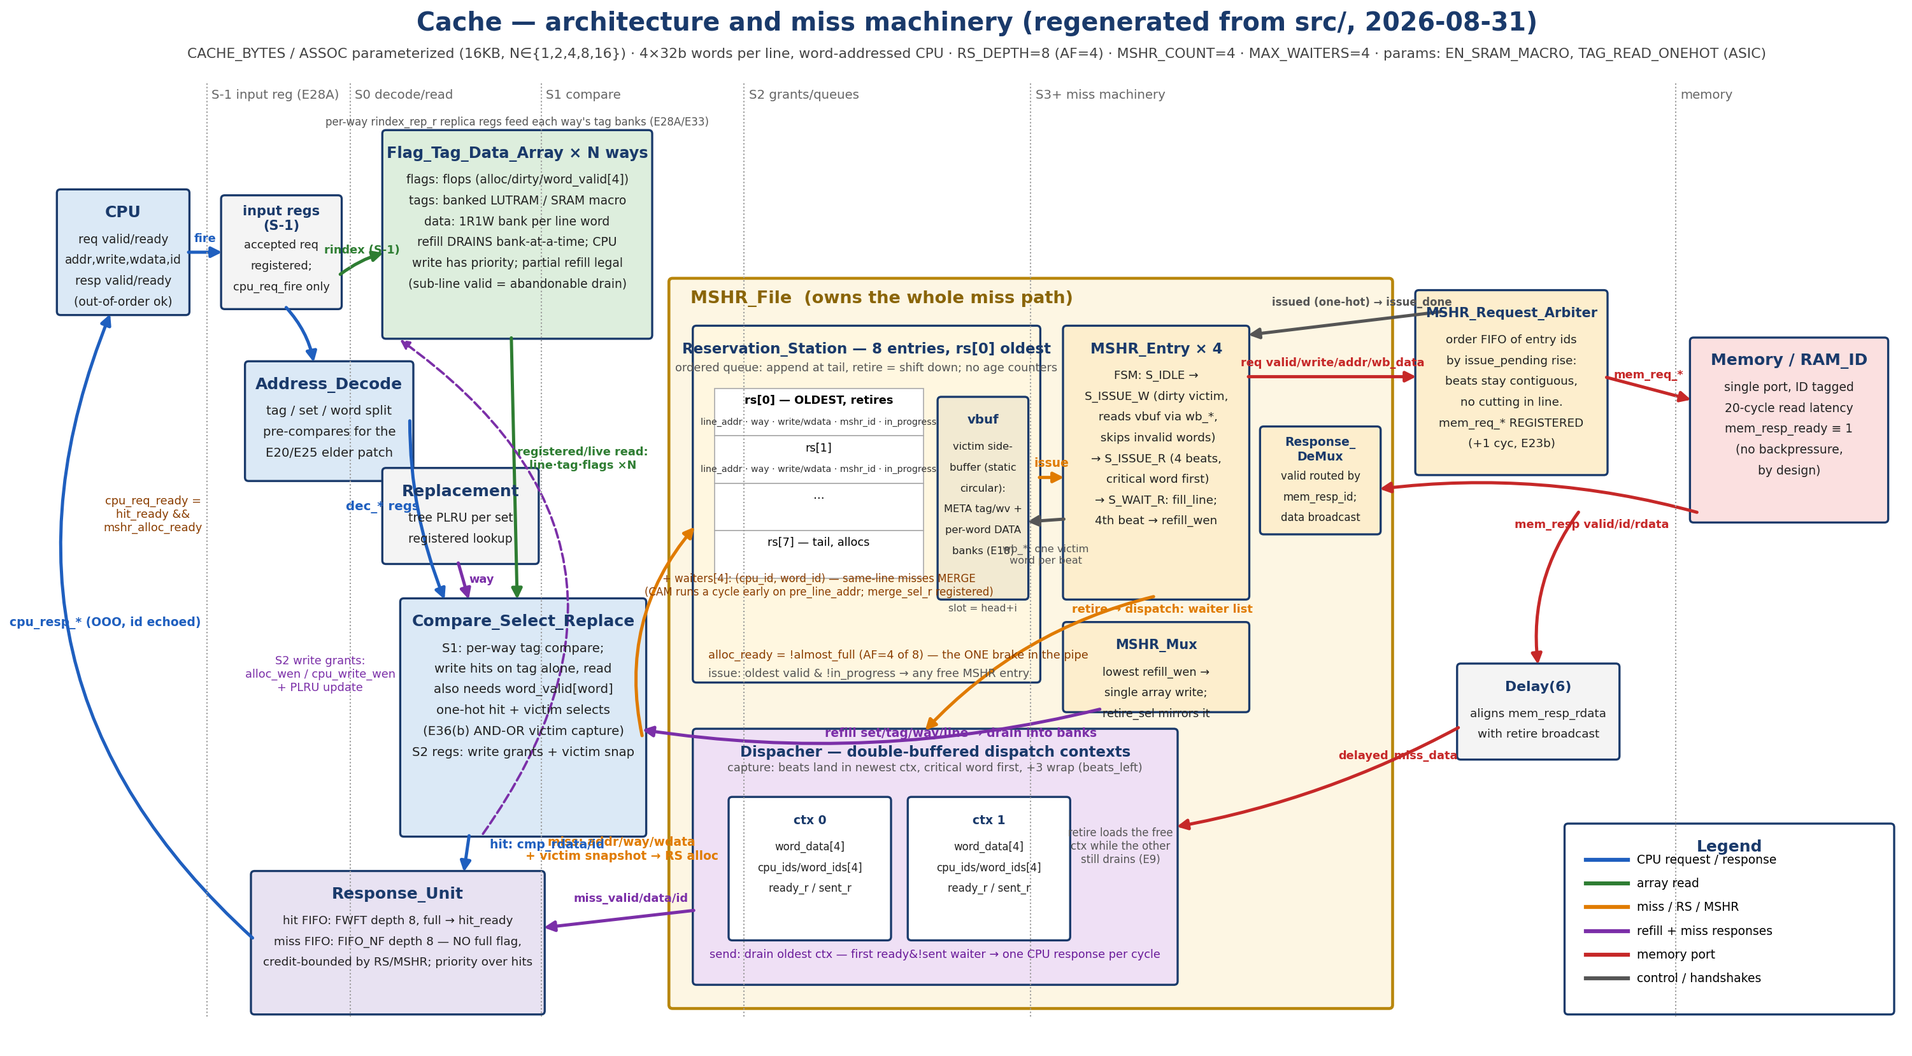
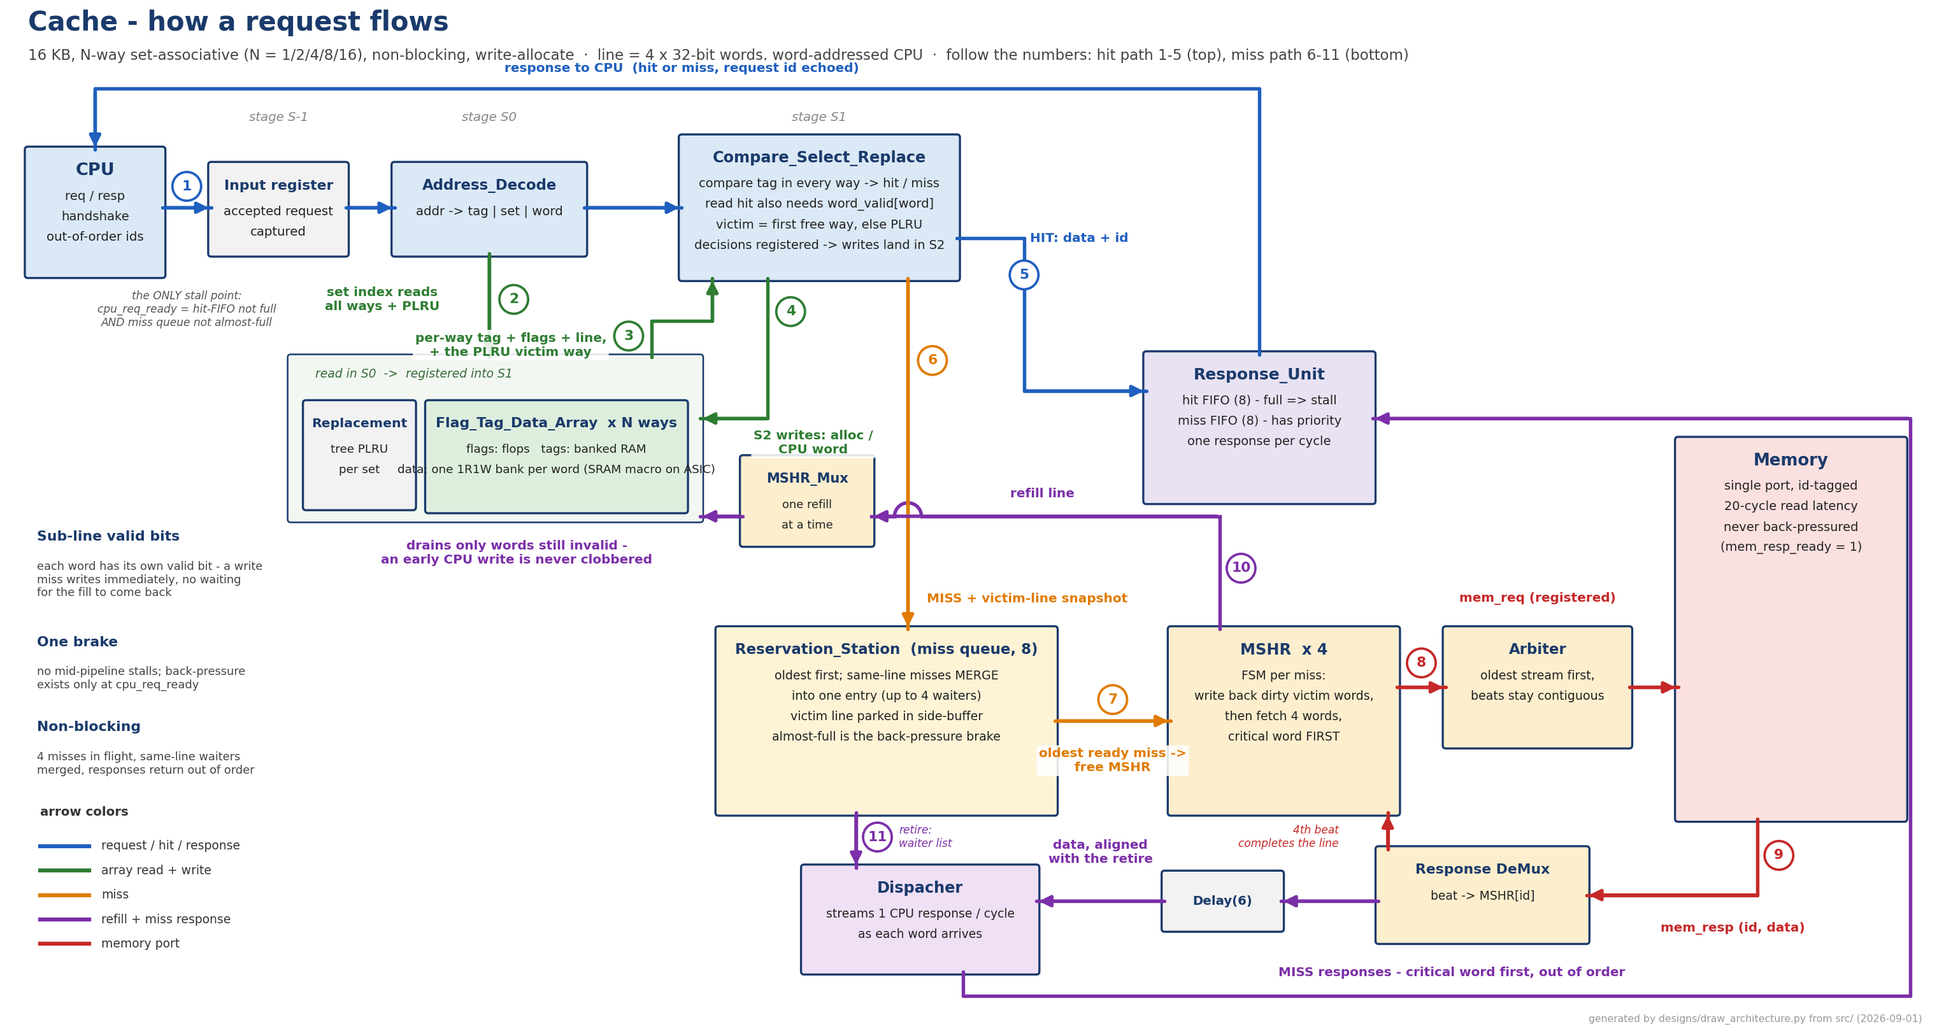
Cache_Architecture.png: numbered-flow redraw from a full src/ re-read
Replaces the dense annotation-covered diagram with a followable story:
hit path 1-5 across the top, miss path 6-11 across the bottom, orthogonal
elbow arrows colored by class, one bridged crossing, and the three load-
bearing ideas (sub-line valid bits, single stall point, non-blocking
misses) called out in plain language. Regenerated by
designs/draw_architecture.py.

Claude-Session: https://claude.ai/code/session_01FEcUytCo5kkGQY8GUweaHs

diff --git a/designs/draw_architecture.py b/designs/draw_architecture.py
@@ -1,148 +1,218 @@
 #!/usr/bin/env python3
 """Cache_Architecture.png - block diagram regenerated from a full src/ read
-(2026-08-31). MSHR_File is opened up: Reservation_Station and Dispacher are
-first-class blocks with internals. Numbers are the as-built Cache.sv
-overrides: S-1 input stage (E28A), RS_DEPTH=8/AF=4, MSHR_COUNT=4,
-MAX_WAITERS=4, Delay(6), registered arbiter outputs (E23b).
+(2026-09-01 rewrite for readability). The flow is a NUMBERED story (1-11):
+request -> hit path across the top, miss machinery across the bottom, one
+clean response rail back to the CPU. All arrows are orthogonal elbows; the
+single unavoidable crossing (refill vs miss-descent) is drawn as a hop.
+Numbers are the as-built Cache.sv overrides: S-1 input stage, RS_DEPTH=8
+(AF=4), MSHR_COUNT=4, MAX_WAITERS=4, Delay(6), registered arbiter outputs.
     python3 draw_architecture.py
 """
 import os
 import matplotlib
 matplotlib.use("Agg")
 import matplotlib.pyplot as plt
-from matplotlib.patches import FancyBboxPatch, FancyArrowPatch, Rectangle
+from matplotlib.patches import FancyBboxPatch, Arc
+from matplotlib.lines import Line2D
 
 HERE = os.path.dirname(os.path.abspath(__file__))
-W, H = 31.0, 17.5
-fig, ax = plt.subplots(figsize=(25, 14.1))
+W, H = 31.5, 16.6
+fig, ax = plt.subplots(figsize=(26, 13.8))
 ax.set_xlim(0, W); ax.set_ylim(0, H); ax.axis("off")
+ax.set_aspect("equal")
 
-C = dict(cpu="#dbe9f6", arr="#ddeedd", csr="#dbe9f6", mshr="#fdeecd",
-         rs="#fff7e0", disp="#efe0f5", resp="#e8e2f2", mem="#fbe0e0", note="#f4f4f4")
 EC = "#1a3a6b"
-
-def box(x, y, w, h, title, lines=(), fc="#eef", fs=10, tfs=12, ec=EC, lw=1.6):
-    ax.add_patch(FancyBboxPatch((x, y), w, h, boxstyle="round,pad=0.06", fc=fc, ec=ec, lw=lw))
-    ax.text(x + w/2, y + h - 0.33, title, ha="center", va="center", fontsize=tfs, fontweight="bold", color=EC)
-    for i, ln in enumerate(lines):
-        ax.text(x + w/2, y + h - 0.78 - i*0.35, ln, ha="center", va="center", fontsize=fs, color="#222")
-
-def arrow(p0, p1, color, label=None, lw=2.4, ls="-", rad=0.0, fs=9.5, lofs=(0, 0.18)):
-    ax.add_patch(FancyArrowPatch(p0, p1, arrowstyle="-|>", mutation_scale=16, color=color,
-                                 lw=lw, linestyle=ls, connectionstyle=f"arc3,rad={rad}"))
-    if label:
-        ax.text((p0[0]+p1[0])/2 + lofs[0], (p0[1]+p1[1])/2 + lofs[1], label,
-                fontsize=fs, color=color, ha="center", fontweight="bold")
-
 BLU, GRN, ORG, PUR, RED, GRY = "#1f5fbf", "#2e7d32", "#e07b00", "#7b2fa8", "#c62828", "#555"
+C = dict(cpu="#dbe9f6", arr="#ddeedd", mshr="#fdeecd", rs="#fff3d6",
+         disp="#efe0f5", resp="#e8e2f2", mem="#fbe0e0", note="#f2f2f2")
 
-ax.text(W/2, H-0.35, "Cache — architecture and miss machinery (regenerated from src/, 2026-08-31)",
-        ha="center", fontsize=19, fontweight="bold", color=EC)
-ax.text(W/2, H-0.82, "CACHE_BYTES / ASSOC parameterized (16KB, N∈{1,2,4,8,16}) · 4×32b words per line, word-addressed CPU · "
-        "RS_DEPTH=8 (AF=4) · MSHR_COUNT=4 · MAX_WAITERS=4 · params: EN_SRAM_MACRO, TAG_READ_ONEHOT (ASIC)",
-        ha="center", fontsize=10.5, color="#444")
 
-# stage rails
-for x, s in [(2.6, "S-1 input reg (E28A)"), (5.0, "S0 decode/read"), (8.2, "S1 compare"),
-             (11.6, "S2 grants/queues"), (16.4, "S3+ miss machinery"), (27.2, "memory")]:
-    ax.plot([x, x], [0.5, H-1.25], ls=":", color="#999", lw=1)
-    ax.text(x + 0.08, H-1.5, s, fontsize=9.5, color="#666", ha="left")
+def box(x, y, w, h, title, lines=(), fc="#eef", fs=9.5, tfs=12, lw=1.6, tc=EC):
+    ax.add_patch(FancyBboxPatch((x, y), w, h, boxstyle="round,pad=0.05",
+                                fc=fc, ec=EC, lw=lw))
+    if lines:
+        ax.text(x + w / 2, y + h - 0.34, title, ha="center", va="center",
+                fontsize=tfs, fontweight="bold", color=tc)
+        for i, ln in enumerate(lines):
+            ax.text(x + w / 2, y + h - 0.76 - i * 0.335, ln, ha="center",
+                    va="center", fontsize=fs, color="#222")
+    else:
+        ax.text(x + w / 2, y + h / 2, title, ha="center", va="center",
+                fontsize=tfs, fontweight="bold", color=tc)
 
-# ---------------- left: CPU, S-1, S0, arrays, S1 ----------------
-box(0.15, 12.4, 2.1, 2.0, "CPU", ["req valid/ready", "addr,write,wdata,id", "resp valid/ready", "(out-of-order ok)"], fc=C["cpu"], fs=9)
-box(2.9, 12.5, 1.9, 1.8, "input regs\n(S-1)", ["accepted req", "registered;", "cpu_req_fire only"], fc=C["note"], fs=8.5, tfs=10)
-box(3.3, 9.6, 2.7, 1.9, "Address_Decode", ["tag / set / word split", "pre-compares for the", "E20/E25 elder patch"], fc=C["cpu"], fs=9.5)
-box(5.6, 12.0, 4.4, 3.4, "Flag_Tag_Data_Array × N ways",
-    ["flags: flops (alloc/dirty/word_valid[4])", "tags: banked LUTRAM / SRAM macro", "data: 1R1W bank per line word",
-     "refill DRAINS bank-at-a-time; CPU", "write has priority; partial refill legal", "(sub-line valid = abandonable drain)"],
-    fc=C["arr"], fs=9, tfs=11.5)
-ax.text(7.8, 15.55, "per-way rindex_rep_r replica regs feed each way's tag banks (E28A/E33)", fontsize=8, ha="center", color="#555")
-box(5.6, 8.2, 2.5, 1.5, "Replacement", ["tree PLRU per set", "registered lookup"], fc=C["note"], fs=9)
-box(5.9, 3.6, 4.0, 3.9, "Compare_Select_Replace",
-    ["S1: per-way tag compare;", "write hits on tag alone, read", "also needs word_valid[word]",
-     "one-hot hit + victim selects", "(E36(b) AND-OR victim capture)", "S2 regs: write grants + victim snap"],
-    fc=C["csr"], fs=9.5)
 
-arrow((2.25, 13.4), (2.9, 13.4), BLU, "fire", fs=8.5)
-arrow((3.9, 12.5), (4.4, 11.5), BLU, "", rad=-0.15)
-arrow((4.8, 13.0), (5.6, 13.4), GRN, "rindex (S-1)", rad=-0.1, fs=8.5)
-arrow((6.0, 10.6), (6.6, 7.5), BLU, "dec_* regs", rad=0.1, lofs=(-0.75, 0))
-arrow((7.7, 12.0), (7.8, 7.5), GRN, "registered/live read:\nline·tag·flags ×N", lofs=(1.15, 0), fs=8.5)
-arrow((6.8, 8.2), (7.0, 7.5), PUR, "way", fs=8.5, lofs=(0.3, -0.02))
-ax.add_patch(FancyArrowPatch((7.2, 3.55), (5.8, 11.95), arrowstyle="-|>", mutation_scale=14,
-                             color=PUR, lw=1.8, connectionstyle="arc3,rad=0.5", linestyle="--"))
-ax.text(4.5, 6.0, "S2 write grants:\nalloc_wen / cpu_write_wen\n+ PLRU update", fontsize=8.5, color=PUR, ha="center")
+def badge(x, y, n, color):
+    ax.add_patch(plt.Circle((x, y), 0.235, fc="white", ec=color, lw=1.8, zorder=6))
+    ax.text(x, y, str(n), ha="center", va="center", fontsize=10.5,
+            fontweight="bold", color=color, zorder=7)
 
-# ---------------- MSHR_File container ----------------
-box(10.4, 0.7, 12.0, 12.2, "", fc="#fdf6e3", ec="#b8860b", lw=2.2)
-ax.text(10.7, 12.55, "MSHR_File  (owns the whole miss path)", fontsize=13, fontweight="bold", color="#8a6508", ha="left")
 
-# Reservation Station
-box(10.8, 6.2, 5.7, 5.9, "Reservation_Station — 8 entries, rs[0] oldest", [], fc=C["rs"], tfs=11)
-ax.text(13.65, 11.4, "ordered queue: append at tail, retire = shift down; no age counters", fontsize=8.5, ha="center", color="#555")
-tx, ty, tw = 11.1, 7.9, 3.5
-for i in range(4):
-    yy = ty + 3.2 - (i+1)*0.8
-    ax.add_patch(Rectangle((tx, yy), tw, 0.8, fc="white", ec="#aaa", lw=0.8))
-    lbl = ["rs[0] — OLDEST, retires", "rs[1]", "…", "rs[7] — tail, allocs"][i]
-    ax.text(tx + tw/2, yy + 0.55, lbl, fontsize=8.5, ha="center", fontweight="bold" if i == 0 else "normal")
-    if i < 2:
-        ax.text(tx + tw/2, yy + 0.2, "line_addr · way · write/wdata · mshr_id · in_progress", fontsize=6.8, ha="center", color="#333")
-ax.text(tx + tw/2, ty - 0.28, "+ waiters[4]: (cpu_id, word_id) — same-line misses MERGE\n(CAM runs a cycle early on pre_line_addr; merge_sel_r registered)", fontsize=8, ha="center", color="#8a3d00")
-box(14.9, 7.6, 1.4, 3.3, "vbuf", ["victim side-", "buffer (static", "circular):", "META tag/wv +", "per-word DATA", "banks (E18)"], fc="#f2ead2", fs=7.8, tfs=9.5)
-ax.text(15.6, 7.35, "slot = head+i", fontsize=7.5, ha="center", color="#555")
-ax.text(11.0, 6.55, "alloc_ready = !almost_full (AF=4 of 8) — the ONE brake in the pipe", fontsize=8.5, color="#8a3d00", ha="left")
-ax.text(11.0, 6.24, "issue: oldest valid & !in_progress → any free MSHR entry", fontsize=8.5, color="#555", ha="left")
+def elbow(pts, color, label=None, lxy=None, num=None, nxy=None, lw=2.6,
+          fs=9.6, hop_at=None):
+    """Orthogonal polyline with an arrowhead on the last segment.
+    hop_at=(x,y): draw a bridge arc where this line crosses another."""
+    for i in range(len(pts) - 1):
+        (x0, y0), (x1, y1) = pts[i], pts[i + 1]
+        if hop_at and y0 == y1 and min(x0, x1) < hop_at[0] < max(x0, x1):
+            d = 0.22 * (1 if x1 > x0 else -1)
+            ax.add_line(Line2D([x0, hop_at[0] - d], [y0, y0], color=color, lw=lw))
+            ax.add_patch(Arc(hop_at, 2 * abs(d), 0.44, theta1=0, theta2=180,
+                             color=color, lw=lw))
+            ax.add_line(Line2D([hop_at[0] + d, x1], [y0, y1], color=color, lw=lw))
+        else:
+            ax.add_line(Line2D([x0, x1], [y0, y1], color=color, lw=lw,
+                               solid_capstyle="round"))
+    (xa, ya), (xb, yb) = pts[-2], pts[-1]
+    ax.annotate("", xy=(xb, yb), xytext=(xa, ya),
+                arrowprops=dict(arrowstyle="-|>", color=color, lw=lw,
+                                mutation_scale=17))
+    if num is not None:
+        nx, ny = nxy if nxy else pts[0]
+        badge(nx, ny, num, color)
+    if label:
+        lx, ly = lxy
+        ax.text(lx, ly, label, fontsize=fs, color=color, fontweight="bold",
+                ha="center", va="center",
+                bbox=dict(boxstyle="round,pad=0.18", fc="white", ec="none", alpha=0.88))
 
-# MSHR entries / demux / mux
-box(17.0, 7.6, 3.0, 4.5, "MSHR_Entry × 4", ["FSM: S_IDLE →", "S_ISSUE_W (dirty victim,", " reads vbuf via wb_*,", " skips invalid words)", "→ S_ISSUE_R (4 beats,", " critical word first)", "→ S_WAIT_R: fill_line;", "4th beat → refill_wen"], fc=C["mshr"], fs=8.8, tfs=11)
-box(20.3, 8.7, 1.9, 1.7, "Response_\nDeMux", ["valid routed by", "mem_resp_id;", "data broadcast"], fc=C["mshr"], fs=8, tfs=9)
-box(17.0, 5.7, 3.0, 1.4, "MSHR_Mux", ["lowest refill_wen →", "single array write;", "retire_sel mirrors it"], fc=C["mshr"], fs=8.5, tfs=10)
 
-# Dispacher
-box(10.8, 1.1, 8.0, 4.2, "Dispacher — double-buffered dispatch contexts", [], fc=C["disp"], tfs=11)
-for k, xx in [(0, 11.4), (1, 14.4)]:
-    box(xx, 1.85, 2.6, 2.3, f"ctx {k}", ["word_data[4]", "cpu_ids/word_ids[4]", "ready_r / sent_r"], fc="white", fs=8, tfs=9)
-ax.text(14.8, 4.65, "capture: beats land in newest ctx, critical word first, +3 wrap (beats_left)", fontsize=8.5, ha="center", color="#555")
-ax.text(14.8, 1.5, "send: drain oldest ctx — first ready&!sent waiter → one CPU response per cycle", fontsize=8.5, ha="center", color="#6a1b9a")
-ax.text(17.9, 3.1, "retire loads the free\nctx while the other\nstill drains (E9)", fontsize=8, ha="center", color="#555")
+# ---------------- header -------------------------------------------------
+ax.text(0.3, H - 0.30, "Cache - how a request flows",
+        ha="left", fontsize=20, fontweight="bold", color=EC)
+ax.text(0.3, H - 0.78,
+        "16 KB, N-way set-associative (N = 1/2/4/8/16), non-blocking, write-allocate  ·  "
+        "line = 4 x 32-bit words, word-addressed CPU  ·  follow the numbers: "
+        "hit path 1-5 (top), miss path 6-11 (bottom)",
+        ha="left", fontsize=11, color="#444")
 
-# flows around MSHR_File
-arrow((9.9, 5.2), (10.8, 8.8), ORG, None, rad=-0.25)
-ax.text(9.55, 3.15, "miss: addr/way/wdata\n+ victim snapshot → RS alloc", fontsize=9, color=ORG, ha="center", fontweight="bold")
-arrow((16.5, 9.6), (17.0, 9.6), ORG, "issue", fs=9)
-arrow((17.0, 8.9), (16.3, 8.85), GRY, None)
-ax.text(16.65, 8.15, "wb_*: one victim\nword per beat", fontsize=7.8, color=GRY, ha="center")
-arrow((17.6, 5.7), (9.85, 5.35), PUR, "refill set/tag/way/line → drain into banks", rad=-0.1, lofs=(1.5, -0.3), fs=9)
-arrow((18.5, 7.6), (14.6, 5.3), ORG, None, rad=0.15)
-ax.text(18.6, 7.32, "retire → dispatch: waiter list", fontsize=8.5, color=ORG, ha="center", fontweight="bold")
+# ---------------- top band: the pipeline --------------------------------
+for x, w, s in [(3.3, 2.2, "stage S-1"), (6.3, 3.1, "stage S0"),
+                (11.0, 4.5, "stage S1"), (18.6, 3.7, "")]:
+    if s:
+        ax.text(x + w / 2, 14.82, s, fontsize=9.5, color="#888",
+                ha="center", style="italic")
 
-# ---------------- right: arbiter + memory + delay ----------------
-box(22.9, 9.7, 3.1, 3.0, "MSHR_Request_Arbiter", ["order FIFO of entry ids", "by issue_pending rise:", "beats stay contiguous,", "no cutting in line.", "mem_req_* REGISTERED", "(+1 cyc, E23b)"], fc=C["mshr"], fs=8.8, tfs=10)
-box(27.5, 8.9, 3.2, 3.0, "Memory / RAM_ID", ["single port, ID tagged", "20-cycle read latency", "mem_resp_ready ≡ 1", "(no backpressure,", "by design)"], fc=C["mem"], fs=9)
-box(23.6, 4.9, 2.6, 1.5, "Delay(6)", ["aligns mem_resp_rdata", "with retire broadcast"], fc=C["note"], fs=8.8, tfs=10.5)
+box(0.3, 12.3, 2.2, 2.05, "CPU", ["req / resp", "handshake", "out-of-order ids"],
+    fc=C["cpu"], tfs=13)
+box(3.3, 12.65, 2.2, 1.45, "Input register", ["accepted request", "captured"],
+    fc=C["note"], tfs=10.5)
+box(6.3, 12.65, 3.1, 1.45, "Address_Decode", ["addr -> tag | set | word"],
+    fc=C["cpu"], tfs=11)
+box(11.0, 12.25, 4.5, 2.3, "Compare_Select_Replace",
+    ["compare tag in every way -> hit / miss", "read hit also needs word_valid[word]",
+     "victim = first free way, else PLRU", "decisions registered -> writes land in S2"],
+    fc=C["cpu"], fs=9.3, tfs=11.5)
 
-arrow((20.0, 11.3), (22.9, 11.3), RED, "req valid/write/addr/wb_data", fs=8.5)
-arrow((26.0, 11.3), (27.5, 10.9), RED, "mem_req_*", fs=8.5)
-arrow((27.6, 9.0), (22.2, 9.4), RED, "mem_resp valid/id/rdata", rad=0.1, lofs=(0.9, -0.45), fs=8.5)
-arrow((25.6, 9.05), (24.9, 6.4), RED, "", rad=0.2)
-arrow((23.6, 5.4), (18.8, 3.7), RED, "delayed_miss_data", rad=-0.08, lofs=(1.35, 0.3), fs=8.5)
-arrow((23.3, 12.4), (20.0, 12.0), GRY, "issued (one-hot) → issue_done", fs=8, lofs=(0.3, 0.3))
+elbow([(2.5, 13.4), (3.3, 13.4)], BLU, num=1, nxy=(2.9, 13.75))
+ax.text(2.9, 12.05, "the ONLY stall point:\ncpu_req_ready = hit-FIFO not full\nAND miss queue not almost-full",
+        fontsize=8.2, color=GRY, ha="center", va="top", style="italic")
+elbow([(5.5, 13.4), (6.3, 13.4)], BLU)
+elbow([(9.4, 13.4), (11.0, 13.4)], BLU)
 
-# ---------------- Response_Unit + CPU response ----------------
-box(3.4, 0.6, 4.8, 2.3, "Response_Unit", ["hit FIFO: FWFT depth 8, full → hit_ready", "miss FIFO: FIFO_NF depth 8 — NO full flag,", "credit-bounded by RS/MSHR; priority over hits"], fc=C["resp"], fs=8.8)
-arrow((7.0, 3.6), (6.9, 2.9), BLU, "hit: cmp_rdata/id", fs=9, lofs=(1.35, 0.1))
-arrow((10.8, 2.3), (8.2, 2.0), PUR, "miss_valid/data/id", fs=8.5, lofs=(0.2, 0.3))
-arrow((3.4, 1.8), (1.0, 12.4), BLU, "cpu_resp_* (OOO, id echoed)", rad=-0.35, lofs=(-1.3, 0), fs=9)
-ax.text(1.7, 8.7, "cpu_req_ready =\nhit_ready &&\nmshr_alloc_ready", fontsize=8.5, color="#8a3d00", ha="center")
+# ---------------- middle band: the arrays -------------------------------
+box(4.6, 8.3, 6.7, 2.65, "", fc="#f2f7f2", lw=1.2)
+ax.text(5.0, 10.62, "read in S0  ->  registered into S1", fontsize=9,
+        color="#3a6b3a", style="italic", ha="left")
+box(4.85, 8.5, 1.75, 1.7, "Replacement", ["tree PLRU", "per set"], fc=C["note"],
+    fs=8.8, tfs=9.8)
+box(6.85, 8.45, 4.2, 1.75, "Flag_Tag_Data_Array  x N ways",
+    ["flags: flops   tags: banked RAM", "data: one 1R1W bank per word (SRAM macro on ASIC)"],
+    fc=C["arr"], fs=8.8, tfs=10.5)
 
-# legend
-box(25.4, 0.6, 5.4, 3.1, "Legend", [], fc="white")
-for i, (c, t) in enumerate([(BLU, "CPU request / response"), (GRN, "array read"), (ORG, "miss / RS / MSHR"),
-                            (PUR, "refill + miss responses"), (RED, "memory port"), (GRY, "control / handshakes")]):
-    yy = 3.15 - i*0.4
-    ax.plot([25.7, 26.4], [yy, yy], color=c, lw=3)
-    ax.text(26.55, yy, t, fontsize=9, va="center")
+elbow([(7.85, 12.65), (7.85, 10.95)], GRN, num=2, nxy=(8.25, 11.9),
+      label="set index reads\nall ways + PLRU", lxy=(6.1, 11.9))
+elbow([(10.5, 10.95), (10.5, 11.55), (11.5, 11.55), (11.5, 12.25)], GRN, num=3,
+      nxy=(10.13, 11.3),
+      label="per-way tag + flags + line,\n+ the PLRU victim way", lxy=(8.2, 11.15))
+elbow([(12.4, 12.25), (12.4, 9.95), (11.3, 9.95)], GRN, num=4, nxy=(12.78, 11.7),
+      label="S2 writes: alloc /\nCPU word", lxy=(13.15, 9.55))
 
-fig.savefig(os.path.join(HERE, "Cache_Architecture.png"), dpi=150, bbox_inches="tight")
+# ---------------- right: Response_Unit + back to CPU --------------------
+box(18.6, 8.6, 3.7, 2.4, "Response_Unit",
+    ["hit FIFO (8) - full => stall", "miss FIFO (8) - has priority", "one response per cycle"],
+    fc=C["resp"], fs=9.3, tfs=12)
+elbow([(15.5, 12.9), (16.6, 12.9), (16.6, 10.4), (18.6, 10.4)], BLU, num=5,
+      nxy=(16.6, 12.3), label="HIT: data + id", lxy=(17.5, 12.9))
+elbow([(20.45, 11.0), (20.45, 15.35), (1.4, 15.35), (1.4, 14.35)], BLU,
+      label="response to CPU  (hit or miss, request id echoed)", lxy=(11.0, 15.68))
+
+# ---------------- bottom band: the miss machinery -----------------------
+box(11.6, 3.5, 5.5, 3.0, "Reservation_Station  (miss queue, 8)",
+    ["oldest first; same-line misses MERGE", "into one entry (up to 4 waiters)", "victim line parked in side-buffer",
+     "almost-full is the back-pressure brake"],
+    fc=C["rs"], fs=9.1, tfs=11)
+box(19.0, 3.5, 3.7, 3.0, "MSHR  x 4",
+    ["FSM per miss:", "write back dirty victim words,", "then fetch 4 words,", "critical word FIRST"],
+    fc=C["mshr"], fs=9.1, tfs=11.5)
+box(23.5, 4.6, 3.0, 1.9, "Arbiter", ["oldest stream first,", "beats stay contiguous"],
+    fc=C["mshr"], fs=9.1, tfs=11)
+box(27.3, 3.4, 3.7, 6.2, "Memory",
+    ["single port, id-tagged", "20-cycle read latency", "never back-pressured", "(mem_resp_ready = 1)"],
+    fc=C["mem"], fs=9.3, tfs=12.5)
+box(22.4, 1.4, 3.4, 1.5, "Response DeMux", ["beat -> MSHR[id]"], fc=C["mshr"],
+    fs=9, tfs=10.5)
+box(13.0, 0.9, 3.8, 1.7, "Dispacher",
+    ["streams 1 CPU response / cycle", "as each word arrives"], fc=C["disp"],
+    fs=9, tfs=11.5)
+box(18.9, 1.6, 1.9, 0.9, "Delay(6)", fc=C["note"], tfs=9.5)
+box(12.0, 7.9, 2.1, 1.4, "MSHR_Mux", ["one refill", "at a time"], fc=C["mshr"],
+    fs=8.6, tfs=10)
+
+# 6: miss descends from S1 into the RS
+elbow([(14.7, 12.25), (14.7, 6.5)], ORG, num=6, nxy=(15.1, 10.9),
+      label="MISS + victim-line snapshot", lxy=(16.65, 7.0))
+# 7: issue
+elbow([(17.1, 5.0), (19.0, 5.0)], ORG, num=7, nxy=(18.05, 5.35),
+      label="oldest ready miss ->\nfree MSHR", lxy=(18.05, 4.35))
+# 8: beats to memory
+elbow([(22.7, 5.55), (23.5, 5.55)], RED, num=8, nxy=(23.1, 5.95))
+elbow([(26.5, 5.55), (27.3, 5.55)], RED, label="mem_req (registered)", lxy=(25.0, 7.0))
+# 9: responses back, demuxed to the entries
+elbow([(28.6, 3.4), (28.6, 2.15), (25.8, 2.15)], RED, num=9, nxy=(28.95, 2.8),
+      label="mem_resp (id, data)", lxy=(28.2, 1.6))
+elbow([(22.55, 2.9), (22.55, 3.5)], RED)
+ax.text(21.75, 3.1, "4th beat\ncompletes the line", fontsize=8.2, color=RED,
+        ha="right", va="center", style="italic")
+# data continues left to the Dispacher through Delay(6)
+elbow([(22.4, 2.05), (20.8, 2.05)], PUR)
+elbow([(18.9, 2.05), (16.8, 2.05)], PUR, label="data, aligned\nwith the retire", lxy=(17.85, 2.85))
+# 10: refill up into the arrays (hops over the miss descent)
+elbow([(19.8, 6.5), (19.8, 8.35), (14.1, 8.35)], PUR, num=10, nxy=(20.15, 7.5),
+      hop_at=(14.7, 8.35),
+      label="refill line", lxy=(16.9, 8.72))
+elbow([(12.0, 8.35), (11.3, 8.35)], PUR,
+      label="drains only words still invalid -\nan early CPU write is never clobbered",
+      lxy=(8.3, 7.75))
+# 11: retire -> Dispacher -> miss responses rail into the Response_Unit
+elbow([(13.85, 3.5), (13.85, 2.6)], PUR, num=11, nxy=(14.2, 3.1))
+ax.text(14.55, 3.1, "retire:\nwaiter list", fontsize=8.2, color=PUR, ha="left",
+        va="center", style="italic")
+elbow([(15.6, 0.9), (15.6, 0.5), (31.1, 0.5), (31.1, 9.95), (22.3, 9.95)], PUR,
+      label="MISS responses - critical word first, out of order", lxy=(23.6, 0.88))
+
+# ---------------- footer: the three ideas + legend ----------------------
+ideas = [
+    ("Sub-line valid bits", "each word has its own valid bit - a write\nmiss writes immediately, no waiting\nfor the fill to come back"),
+    ("One brake", "no mid-pipeline stalls; back-pressure\nexists only at cpu_req_ready"),
+    ("Non-blocking", "4 misses in flight, same-line waiters\nmerged, responses return out of order"),
+]
+yi = 7.95
+for t, sub in ideas:
+    ax.text(0.45, yi, t, fontsize=10.5, fontweight="bold", color=EC)
+    ax.text(0.45, yi - 0.33, sub, fontsize=8.5, color="#444", va="top")
+    yi -= 0.30 + 0.335 * (sub.count("\n") + 1) + 0.42
+
+leg = [(BLU, "request / hit / response"), (GRN, "array read + write"),
+       (ORG, "miss"), (PUR, "refill + miss response"), (RED, "memory port")]
+for i, (c, t) in enumerate(leg):
+    y = 2.95 - i * 0.40
+    ax.add_line(Line2D([0.5, 1.3], [y, y], color=c, lw=3))
+    ax.text(1.5, y, t, fontsize=9, color="#333", va="center")
+ax.text(0.5, 3.45, "arrow colors", fontsize=9.5, fontweight="bold", color="#333")
+
+ax.text(W - 0.2, 0.08, "generated by designs/draw_architecture.py from src/ (2026-09-01)",
+        fontsize=7.5, color="#999", ha="right")
+
+fig.savefig(os.path.join(HERE, "Cache_Architecture.png"), dpi=150,
+            bbox_inches="tight", facecolor="white")
 print("wrote Cache_Architecture.png")
